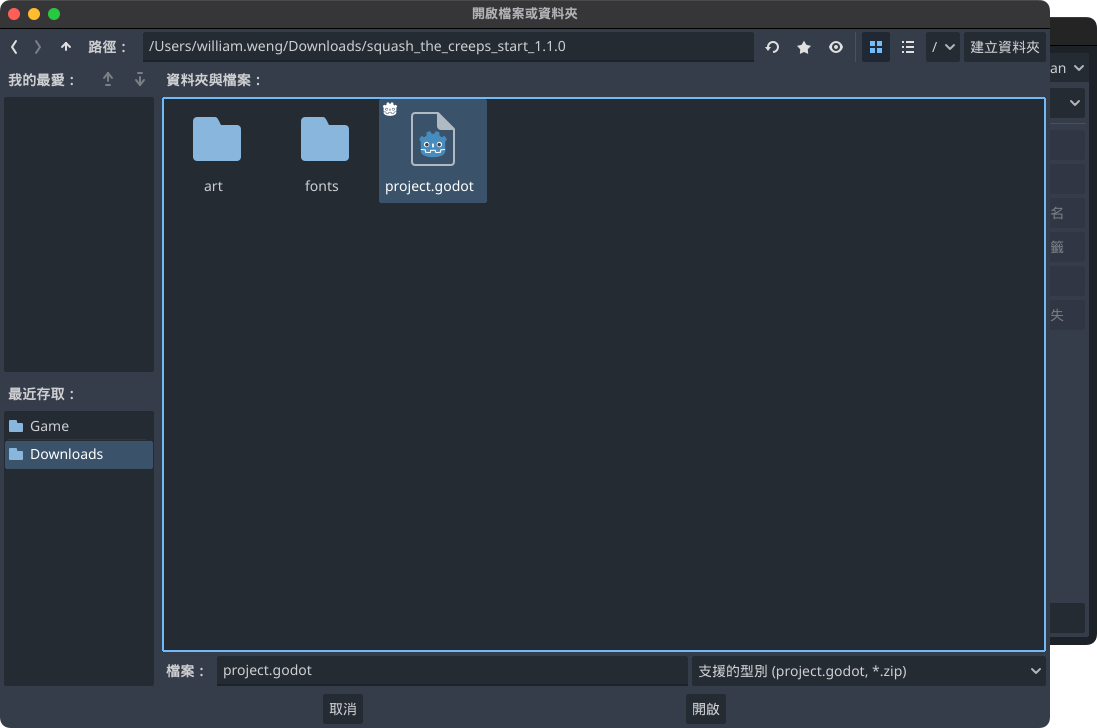
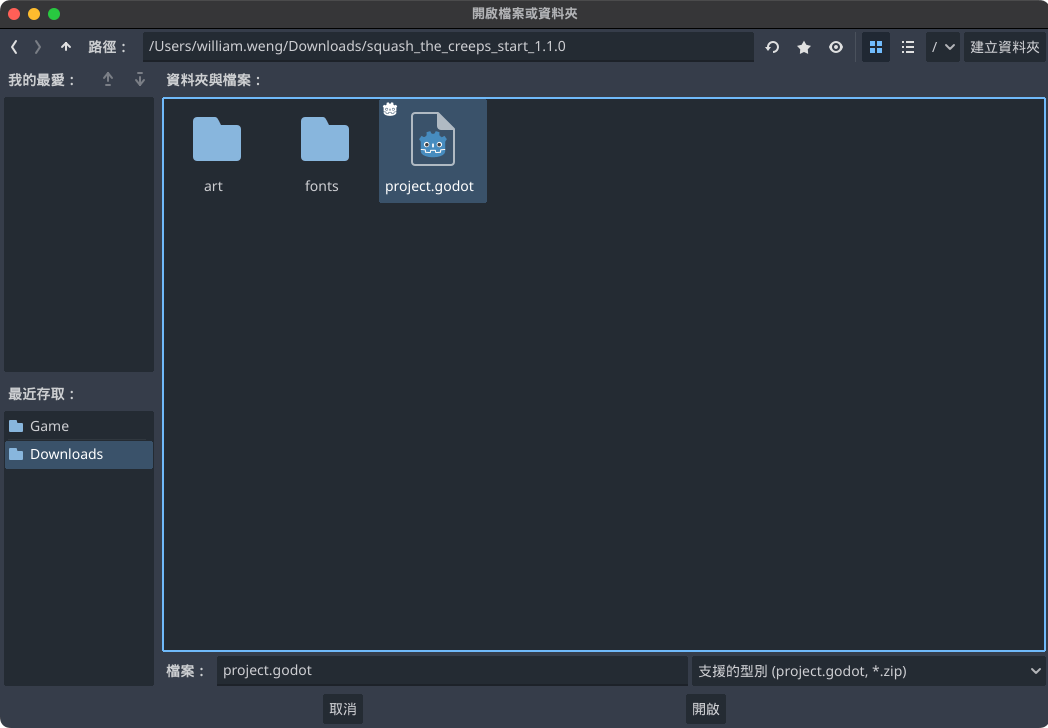
- 【Godot 4】不可能，我3D天下無敵 - 3D遊戲我來了 (3/3)

diff --git a/2024/05/godot-4不可能我3d天下無敵-3d遊戲我來了/index.html b/2024/05/godot-4不可能我3d天下無敵-3d遊戲我來了/index.html
@@ -215,7 +215,7 @@
         
       
 
-      <img class="image_figure image_internal" src="https://William-Weng.github.io/images/2024/godot-3d-game-first/Download.png" alt="" loading="lazy" decoding="async" width="1097" height="728"  />
+      <img class="image_figure image_internal" src="https://William-Weng.github.io/images/2024/godot-3d-game-first/Download.png" alt="" loading="lazy" decoding="async" width="1048" height="728"  />
       
 
     </picture>
